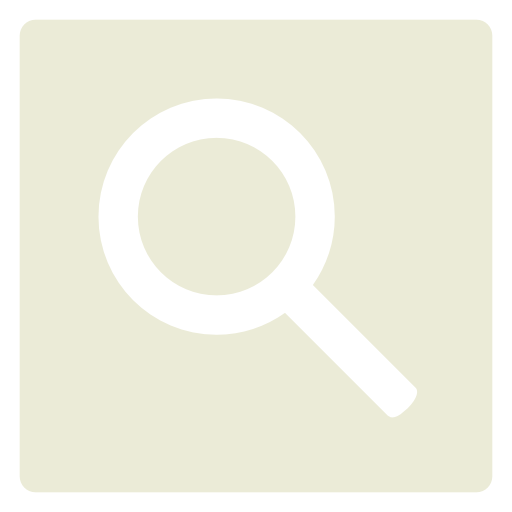
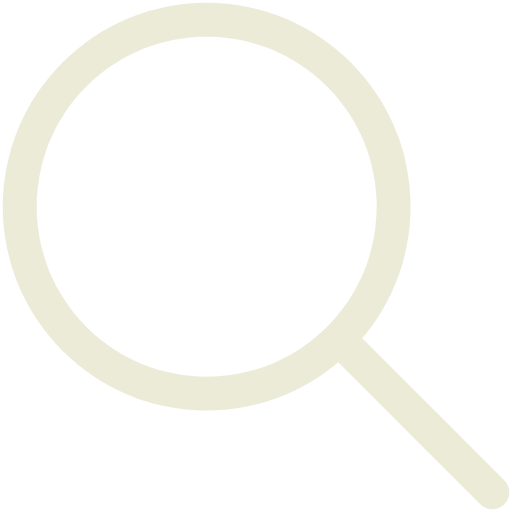
commit

diff --git a/Client Page/Style.css b/Client Page/Style.css
@@ -89,44 +89,48 @@ a {
   font-size: xx-small;
 }
 
-#searchbutt {
-  margin: 2.4% 15px 3% 0px;
-  height: 49%;
-  background-color: rgba(255, 255, 255, 0);
-  border-bottom: 2px solid var(--light);
-  border-top: none;
+.sb-example-1 .search {
+  width: 100%;
+  position: relative;
+  display: flex;
+  flex-wrap: nowrap;
+}
+
+.search button {
+  background-color: transparent;
+  outline: none;
+  border: 3px solid var(--light);
   border-left: none;
+  padding: 5px;
+  border-radius: 0px 5px 5px 0px;
+  height: max-content;
+  margin-top: 23px;
+  padding: 5px 5px 3px 5px;
+}
+
+.sb-example-1 .searchTerm {
+  width: 100%;
+  border: 3px solid var(--light);
   border-right: none;
+  padding: 5px;
+  height: 37px;
+  margin-top: 23px;
+  border-radius: 5px 0 0 5px;
+  outline: none;
+  color: var(--light);
+  background-color: transparent;
 }
-
-input {
-  font-size: large;
-  font-weight: 500;
-  margin: 8.4% 0px 15px 15px;
-  height: 22%;
-  border-bottom: 2px solid rgb(235, 235, 215);
-  border-top: none;
-  border-left: none;
-  border-right: none;
-  background-color: rgba(255, 255, 255, 0);
+.sb-example-1 .searchTerm:focus{
+  color: var(--light);
 }
-
-input::placeholder {
-  color: rgb(235, 235, 215);
-  font-size: small;
-  font-weight: 500;
-  margin: 1px;
-}
-
-.iconsearch {
-  padding: 0;
-  margin: 0;
-  height: 100%;
-  width: 30px;
-}
-
-.iconsearch:hover {
+.sb-example-1 #search-icon {
+  width: 20px;
+  height: 20px;
+  background: transparent;
+  text-align: center;
+  border-radius: 0 5px 5px 0;
   cursor: pointer;
+  font-size: 20px;
 }
 
 .icon {
@@ -290,45 +294,6 @@ nav div p {
     text-decoration: none;
     color: rgb(235, 235, 215);
     font-size: xx-small;
-  }
-
-  #searchbutt {
-    margin: 2.5% 15px 3% 0px;
-    height: 45%;
-    background-color: rgba(255, 255, 255, 0);
-    border-bottom: 2px solid rgb(235, 235, 215);
-    border-top: none;
-    border-left: none;
-    border-right: none;
-  }
-
-  input {
-    font-size: large;
-    font-weight: 500;
-    margin: 8.2% 0px 15px 15px;
-    height: 20%;
-    border-bottom: 2px solid rgb(235, 235, 215);
-    border-top: none;
-    border-left: none;
-    border-right: none;
-    background-color: rgba(255, 255, 255, 0);
-  }
-
-  input::placeholder {
-    color: rgb(235, 235, 215);
-    font-size: small;
-    font-weight: 500;
-  }
-
-  .iconsearch {
-    padding: 0;
-    margin: 0;
-    height: 100%;
-    width: 30px;
-  }
-
-  .iconsearch:hover {
-    cursor: pointer;
   }
 
   .icon {
@@ -495,14 +460,6 @@ nav div p {
     flex-direction: column;
     text-align: center;
     transition: display 250ms ease-out;
-  }
-
-  .navright div input {
-    margin: 0;
-  }
-
-  input {
-    height: 31.4px;
   }
 
   .navright div img {

diff --git a/style.css b/style.css
@@ -1,5 +1,5 @@
 body {
-    background-image: linear-gradient(60deg, #4971D8, rgba(104, 214, 209, 0.665));
+    background-image: linear-gradient(60deg, #4971D8, #4971D8);
     margin: 0;
     padding: 0;
 }
@@ -64,14 +64,13 @@ a:hover {
     border-radius: 15px;
     box-shadow: 10px 10px 10px 10px rgba(0, 0, 0, 0.494);
     background: #5f5f5f;
-
 }
 
 .prod {
     background-color: rgb(143, 143, 143);
     border-radius: 5px;
     padding: 1% 1% 0% 1%;
-    margin: 30px 10px 15px 5px;
+    margin: 30px 10px 8% 5px;
     box-shadow: 1px 1px 5px black;
     position: relative;
 }
@@ -190,6 +189,27 @@ button:hover {
     font-weight: 500;
 }
 
+#json-button {
+    background-color: #4971D8;
+    border-radius: 5%;
+    border: none;
+    font-weight: bold;
+    width: 20%;
+    padding: 10px;
+    height: auto;
+    box-shadow: 1px 1px 3px black;
+    margin-top: 3%;
+    margin-bottom: 0%;
+    margin-right: 40%;
+    margin-left: 40%;
+}
+
+#json-button:active,
+#json-button:hover {
+    background-color: rgb(204, 139, 140);
+    cursor: pointer;
+}
+
 @media screen and (min-width: 1333px) {
     #left {
         margin-top: 120px;
@@ -263,5 +283,10 @@ button:hover {
         order: 2;
         margin-left: 10%;
         margin-right: 10%;
+    }
+    #json-button {
+        width: 50%;
+        margin-left: 20%;
+        margin-right: 20%;
     }
 }

diff --git a/Client Page/Client.html b/Client Page/Client.html
@@ -24,11 +24,14 @@
                     <a class="space underline" href="MyChart.html">My Chart</a>
                     <a class="space" id="margon" href="Login.html"><img class="icon" src="login.png"
                             alt="login icon"></a>
-                    <div class="searchbar">
-                        <input type="text" placeholder="Search">
-                        <button id="searchbutt"><img class="iconsearch" src="search.png" alt="search icon"
-                                onclick=""></button>
-                    </div>
+                            <div class="sb-example-1">
+                                <div class="search">
+                                   <input type="text" class="searchTerm" placeholder="What are you looking for?">
+                                   <button type="submit">
+                                     <img src="search.png" alt="icon" id="search-icon">
+                                  </button>
+                                </div>
+                             </div>
                 </div>
             </nav>
         </header>

diff --git a/ui.js b/ui.js
@@ -31,7 +31,7 @@ function errData(error) {
 
 function gotData(data) {
     let productsElement = document.querySelector("#left");
-    productsElement.innerHTML = "";
+    productsElement.innerHTML = `<button id="json-button">Download products</button>`;
     if (data.exists()) {
         data = data.val();
         let keys = Object.keys(data);
@@ -143,4 +143,8 @@ function handleDeleteButton(bro) {
         ref.child(delVar).remove();
     }
     displayProducts();
+}
+
+function handleDownloadButton(){
+    const fs = require ('fs');
 }
